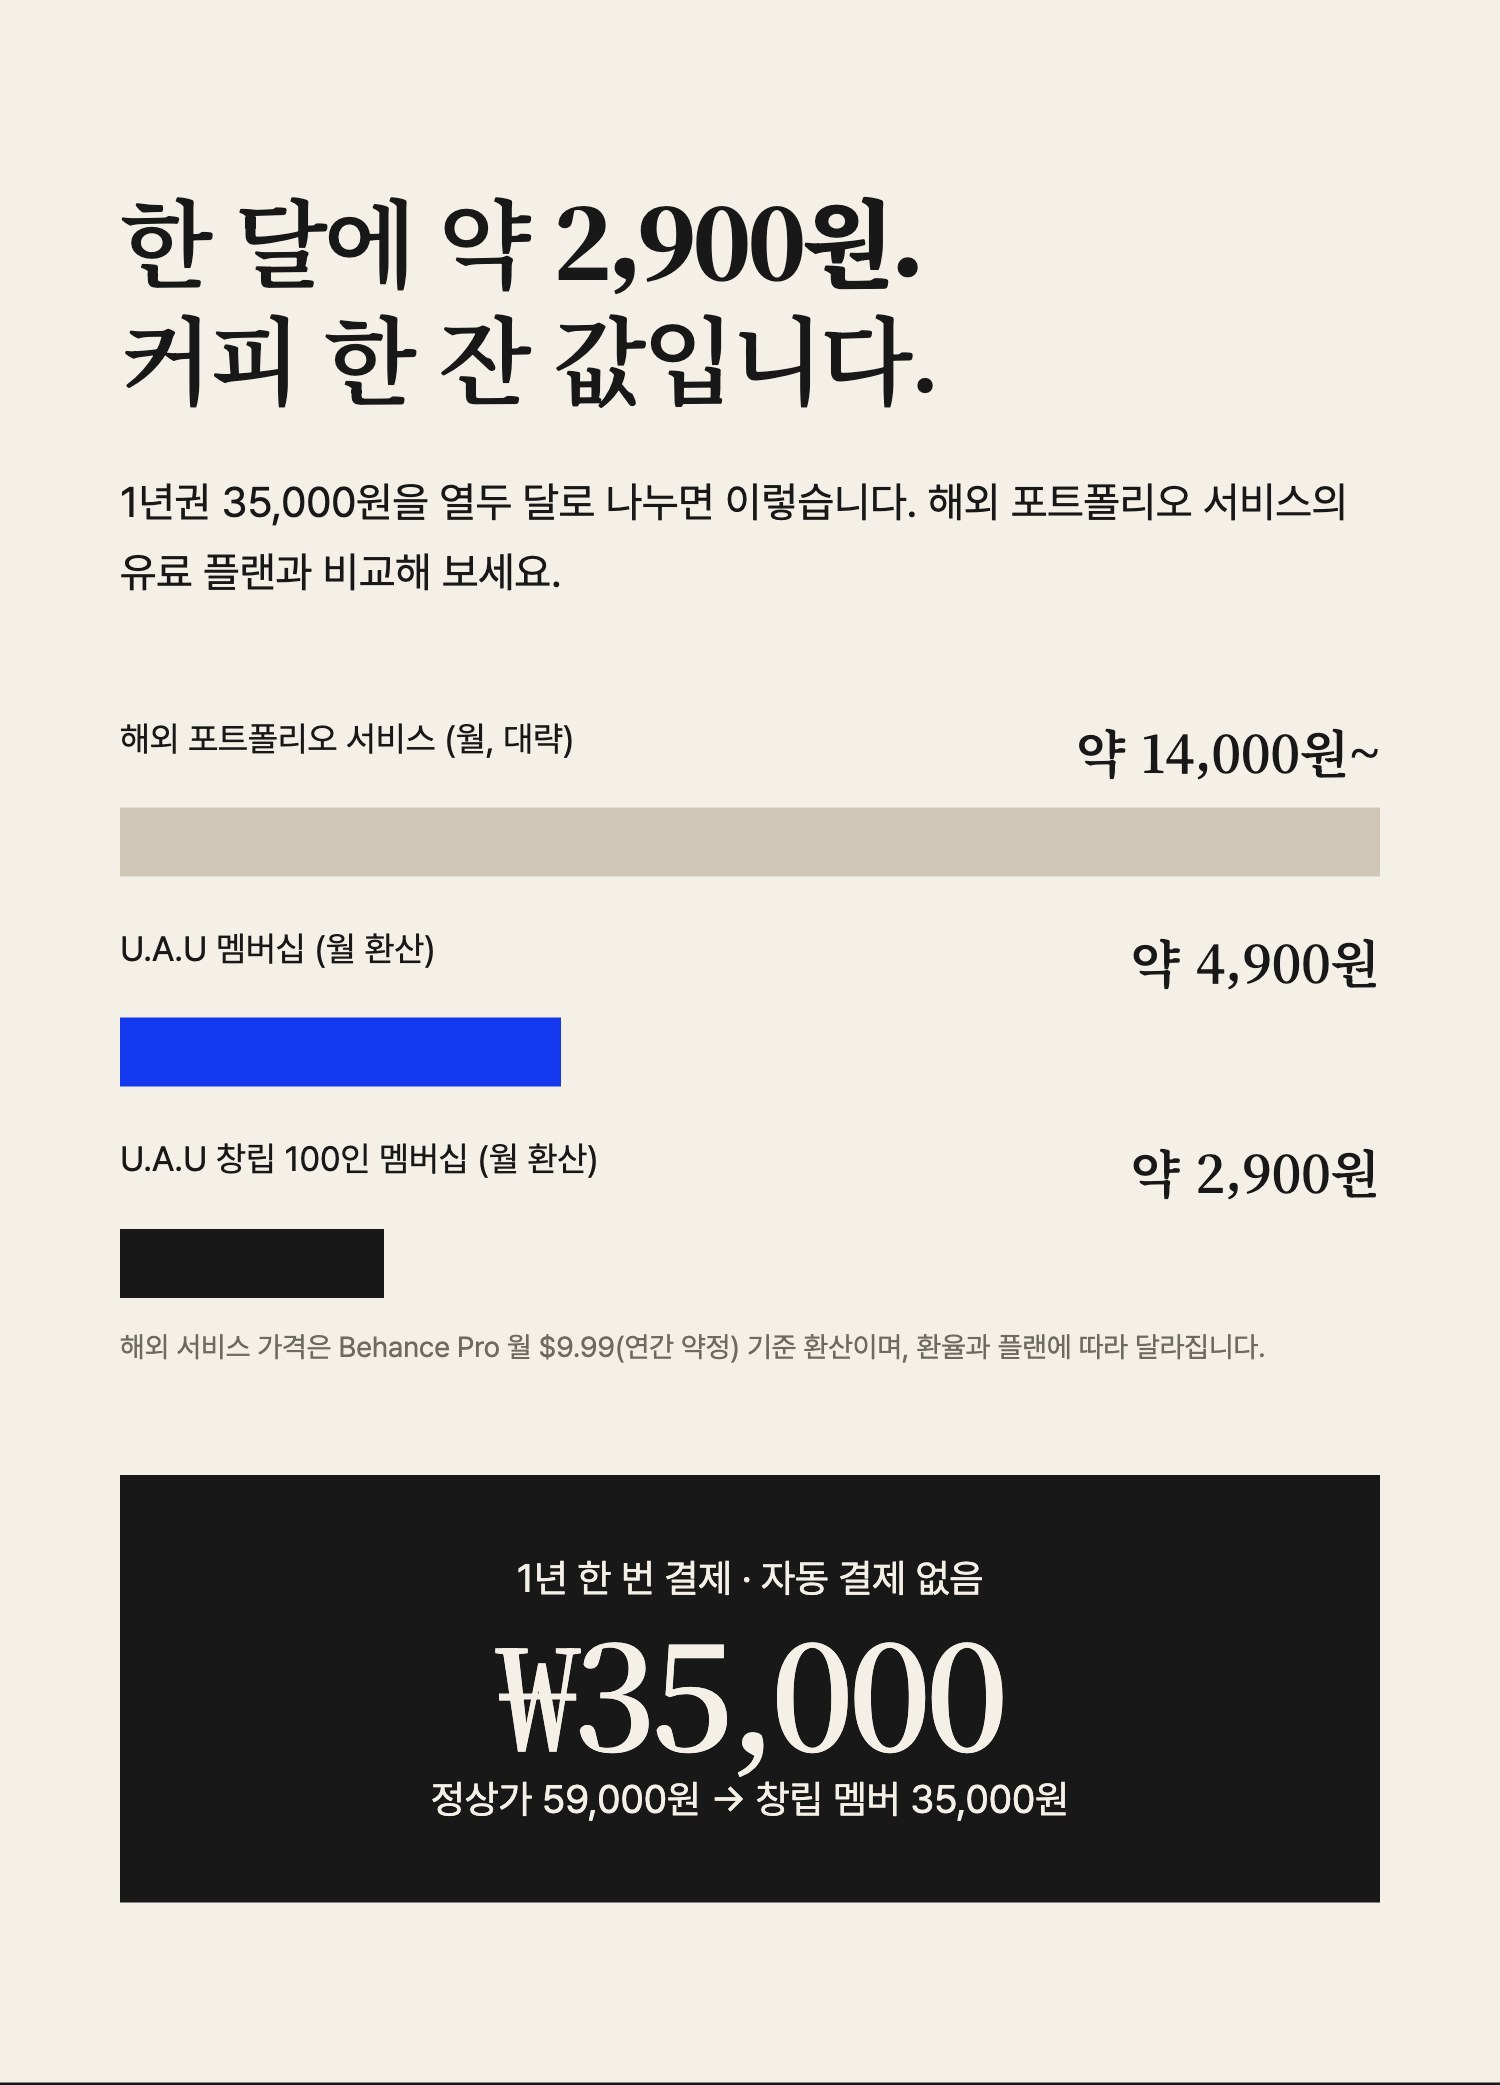
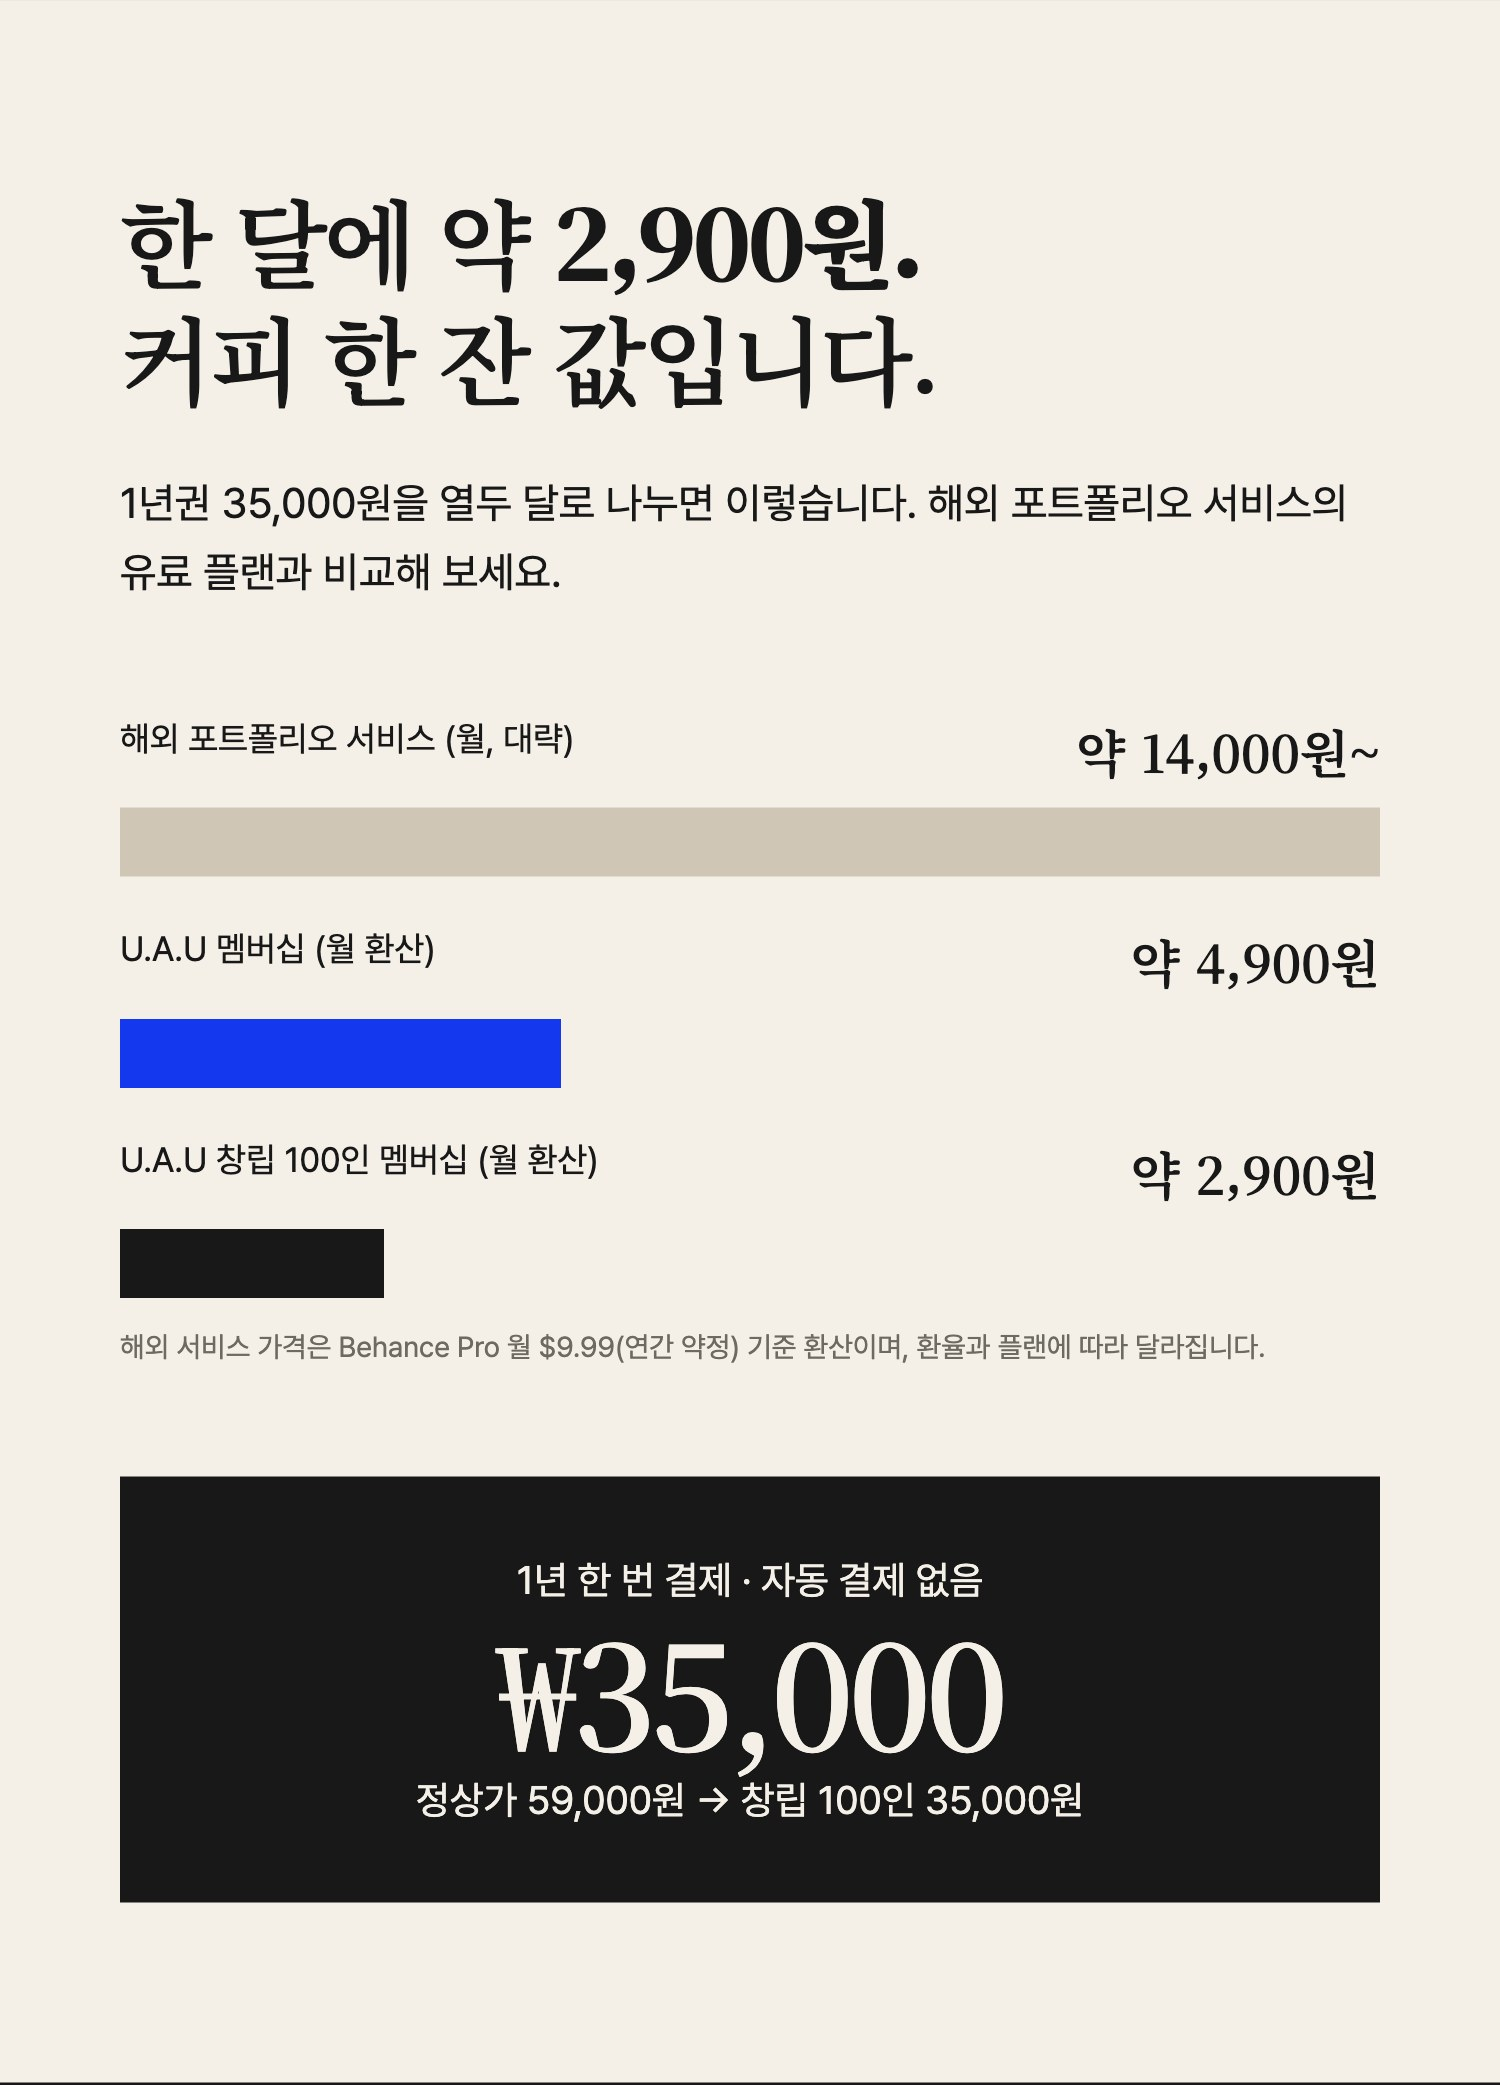
Rewrite the founding detail copy and add JPG covers
Match the founding copy to the member tone, fix particles left after the
crest rename, collect the U.A.U email with an input option, and export the
covers as JPG as well since Imweb rejected the founding PNG.

diff --git a/docs/operations/imweb/detail.html b/docs/operations/imweb/detail.html
@@ -174,7 +174,7 @@ const sections = [
   `<section class="slice open"><img src="../../../public/assets/uau-hero.webp" alt=""><div class="brand">U.A.U - UNFRAME Artist Unit</div><div class="scrim"></div>${seal()}<div class="copy">
     <span class="tag">${isFounding ? "선착순 100명 · 창립 멤버 1년권" : "U.A.U 멤버 1년권"}</span>
     <h1>${isFounding ? "단 100명에게만,<br>먹색 크레스트." : "작가의 이름 옆에,<br>작은 크레스트 하나."}</h1>
-    <p>${isFounding ? "U.A.U가 시작하는 해를 함께할 작가 100명을 찾습니다." : "커피 한 잔 값으로, 당신의 작업이 더 명확하고 자주 보이게."}</p></div></section>`,
+    <p>${isFounding ? "U.A.U의 첫해를 함께 열어 갈 창립 아티스트 100명을 찾습니다." : "커피 한 잔 값으로, 당신의 작업이 더 명확하고 자주 보이게."}</p></div></section>`,
   // 2 pains
   `<section class="slice deep"><h2>작업에 몰두하기도 벅찬데,<br><em>알리는 비용</em>은 무겁습니다.</h2>
     <p class="lead">아티스트가 자신의 온전한 아카이브를 알리려면 생각보다 많은 비효율과 비용이 듭니다.</p>
@@ -189,7 +189,7 @@ const sections = [
     <p class="lead">멤버십은 상업적인 입찰 광고가 아닙니다. <b>창작을 지키는 아티스트에게 더 명확한 시선의 기회를 더하는 신뢰의 연결입니다.</b></p></section>`,
   // 4 seal reveal
   `<section class="slice dark reveal"><span class="tag">MEMBERSHIP CREST</span><h2 style="margin-top:30px">이름 옆에 새겨지는<br>U.A.U ${name} 크레스트</h2>${seal()}
-    <div class="anatomy"><div><b>U · A</b><p>상단은 Unframe Artist의 머리글자. 기존 틀을 벗어난 동시대 아티스트</p></div><div><b>□ · U</b><p>하단은 액자 틀과 Unit. 틀을 확장하는 아티스트들의 독립적 연대 단위.</p></div><div><b>${colour}</b><p>${isFounding ? "먹색은 창립 멤버에게만. 테두리가 한 겹 더 있습니다." : "딥블루는 U.A.U 공식 멤버의 시그니처 컬러입니다."}</p></div></div></section>`,
+    <div class="anatomy"><div><b>U · A</b><p>상단은 Unframe Artist의 머리글자. 기존 틀을 벗어난 동시대 아티스트</p></div><div><b>□ · U</b><p>하단은 액자 틀과 Unit. 틀을 확장하는 아티스트들의 독립적 연대 단위.</p></div><div><b>${colour}</b><p>${isFounding ? "먹색은 창립 100인에게만 허락된 컬러. 테두리가 한 겹 더 새겨집니다." : "딥블루는 U.A.U 공식 멤버의 시그니처 컬러입니다."}</p></div></div></section>`,
   // 5 benefit 1
   `<section class="slice soft"><div class="num">01</div><h2 style="margin-top:36px">아티스트 페이지와 목록,<br>이름 옆에 <em>크레스트</em>가 붙습니다.</h2>
     <p class="lead">아티스트 페이지 상단에는 볼드한 크레스트가, 아카이브 목록과 추천 탭에는 컴팩트 크레스트가 표시됩니다. 컬렉터와 큐레이터는 이 작가가 U.A.U와 긴밀히 연대하는 멤버임을 직관적으로 확인합니다.</p>
@@ -212,7 +212,7 @@ const sections = [
       <div><div><b>아카이브 애널리틱스</b><p>작업 조회수 · 문의 추이 · 큐레이터 저장 수를 한 화면에서</p></div><em>준비 중</em></div>
       <div><div><b>포트폴리오 PDF 익스포트</b><p>워터마크 없이 인쇄/전달 가능한 규격 도록 내보내기</p></div><em>준비 중</em></div>
       <div><div><b>오픈콜 & 기획 우선 알림</b><p>큐레이터 브리프 · 오픈콜 · 협력전시를 우선 전달</p></div><em>준비 중</em></div>
-      ${isFounding ? `<div><div><b>연말 Recap 수록</b><p>창립 멤버로 한 해의 기록에</p></div><em>준비 중</em></div>` : ""}
+      ${isFounding ? `<div><div><b>연말 Recap 창립 아티스트 수록</b><p>U.A.U 첫해의 기록에 창립 아티스트로 이름을 남깁니다</p></div><em>준비 중</em></div>` : ""}
     </div></section>`,
   // 8 price
   `<section class="slice"><h2>한 달에 약 <em>${month}원.</em><br>커피 한 잔 값입니다.</h2>
@@ -222,15 +222,15 @@ const sections = [
       <div class="bar is-us"><span>U.A.U 멤버십 (월 환산)<b>약 4,900원</b></span><i style="width:35%"></i></div>
       <div class="bar is-founding-bar"><span>U.A.U 창립 100인 멤버십 (월 환산)<b>약 2,900원</b></span><i style="width:21%"></i></div>
     </div><p class="caption">해외 서비스 가격은 Behance Pro 월 $9.99(연간 약정) 기준 환산이며, 환율과 플랜에 따라 달라집니다.</p>
-    <div class="coffee"><span>1년 한 번 결제 · 자동 결제 없음</span><strong>₩${price}</strong>${isFounding ? "<span>정상가 59,000원 → 창립 멤버 35,000원</span>" : "<span>끊기지 않고 갱신하면 가입 가격 그대로</span>"}</div></section>`,
+    <div class="coffee"><span>1년 한 번 결제 · 자동 결제 없음</span><strong>₩${price}</strong>${isFounding ? "<span>정상가 59,000원 → 창립 100인 35,000원</span>" : "<span>끊기지 않고 갱신하면 가입 가격 그대로</span>"}</div></section>`,
   // 9 founding only
   isFounding ? `<section class="slice dark"><span class="tag">FOUNDING 100</span><h2 style="margin-top:30px">창립 멤버는 100명에서<br>닫히고, 다시 열리지 않습니다.</h2>
     <div class="seats">${Array.from({ length: 100 }, () => "<i></i>").join("")}</div>
     <div class="found-list">
-      <div><b>01</b><p>먹색 창립 크레스트<small>테두리가 한 겹 더 있는, 창립 멤버만의 크레스트</small></p></div>
-      <div><b>02</b><p>연 35,000원, 갱신하는 동안 그대로<small>나중에 멤버 가격이 올라도 끊기지 않으면 유지</small></p></div>
-      <div><b>03</b><p>멤버 혜택 전부<small>크레스트 · 홈 스포트라이트 · 앞으로 열릴 도구</small></p></div>
-      <div><b>04</b><p>U.A.U의 첫해를 함께한 기록<small>연말 Recap 창립 멤버 수록 (준비 중)</small></p></div>
+      <div><b>01</b><p>먹색 창립 크레스트<small>테두리가 한 겹 더 새겨진, 창립 100인만의 시그니처 크레스트</small></p></div>
+      <div><b>02</b><p>연 35,000원, 갱신하는 동안 그대로<small>이후 멤버십 가격이 인상되어도 끊김 없이 갱신하면 최초 가입가 유지</small></p></div>
+      <div><b>03</b><p>멤버 혜택 전부<small>크레스트 · 홈 스포트라이트 · 새롭게 열리는 아티스트 툴셋</small></p></div>
+      <div><b>04</b><p>U.A.U의 첫해를 함께한 기록<small>연말 Recap 창립 아티스트 수록 (준비 중)</small></p></div>
     </div></section>` : "",
   // 10 promises
   `<section class="slice deep"><h2>U.A.U가 지키는<br>세 가지 약속.</h2><div class="promise">
@@ -249,7 +249,7 @@ const sections = [
     <div><b>자동으로 다시 결제되나요?</b><p>아닙니다. 1년 기간권이므로 의사와 무관하게 자동 청구되지 않으며, 만료 전에 미리 연장 안내를 드립니다.</p></div>
     <div><b>크레스트 표시는 언제 켜지나요?</b><p>UNFRAME 운영팀이 결제를 확인 후 12시간 이내에 반영합니다. 주문서에 U.A.U 가입 이메일로 작가 페이지를 연동합니다.</p></div>
     ${isFounding
-      ? `<div><b>작가 번호의 '창립 작가'와 같은 건가요?</b><p>다릅니다. 작가 번호의 창립 표시는 먼저 승인된 작가에게 무료로 붙는 기록이고, 먹색 크레스트은 유료 창립 멤버에게만 붙습니다.</p></div><div><b>갱신을 놓치면 어떻게 되나요?</b><p>갱신하지 않고 1년이 지나면 창립 크레스트와 가격이 함께 끝납니다. 만료 전에 미리 알려 드립니다.</p></div>`
+      ? `<div><b>작가 번호의 '창립 작가' 표시와 같은 건가요?</b><p>다릅니다. 작가 번호의 창립 표시는 초기에 승인된 아티스트에게 무료로 남는 기록이며, 먹색 크레스트는 유료 창립 멤버십 가입자에게만 표시됩니다.</p></div><div><b>갱신 시기를 놓치면 어떻게 되나요?</b><p>만료 전에 미리 연장 안내를 드립니다. 갱신 없이 기간이 지나면 창립 크레스트와 창립 가격 혜택이 함께 종료되며, 이후에는 일반 멤버십으로 가입하실 수 있습니다.</p></div>`
       : `<div><b>창립 멤버와 일반 멤버의 차이는 무엇인가요?</b><p>제공되는 핵심 기능은 동일하며, 크레스트의 컬러(블루 / 먹)와 가입 가격이 다릅니다. 창립 멤버는 선착순 100명 한정입니다.</p></div><div><b>이후 멤버십 가격이 인상되면 어떻게 되나요?</b><p>기간 만료 전 끊김 없이 갱신을 이어가시는 멤버는 최초 가입할 때의 금액 그대로 연장 권한을 유지하실 수 있습니다.</p></div>`}
     <div><b>환불 정책은 어떻게 되나요?</b><p>크레스트 활성화 전 취소 시 전액 환불되며, 상세 기준은 하단 UNFRAME 스토어 이용약관 및 환불 규정을 준수합니다.</p></div>
   </div></section>`,

diff --git a/app/membership/page.tsx b/app/membership/page.tsx
@@ -31,8 +31,8 @@ export default function MembershipPage() {
   const faq = [
     [tx(locale, "Will I be charged again automatically?", "자동으로 다시 결제되나요?"), tx(locale, "No. It is a one-year pass. When the year ends the seal switches off by itself, and you decide whether to buy another year.", "아니요. 1년권이라 자동 결제가 없습니다. 1년이 지나면 크레스트가 저절로 꺼지고, 다음 해를 이어 갈지는 직접 정하시면 됩니다.")],
     [tx(locale, "When does my seal appear?", "크레스트는 언제 켜지나요?"), tx(locale, "After the UNFRAME team confirms the payment, within 12 hours. Write the email you use on U.A.U in the order form so we can find your page.", "UNFRAME 팀이 결제를 확인한 뒤, 12시간 이내에 켜집니다. 페이지를 찾을 수 있도록 주문서에 U.A.U 가입 이메일을 꼭 적어 주세요.")],
-    [tx(locale, `What makes the founding ${foundingSeats} different?`, `창립 ${foundingSeats}인은 무엇이 다른가요?`), tx(locale, `They pay ₩35,000 a year instead of ₩59,000, wear the ink seal, and keep both for as long as they renew without a break. After ${foundingSeats} passes, founding closes for good.`, `연 59,000원 대신 35,000원을 내고, 먹색 크레스트을 답니다. 끊기지 않고 갱신하는 동안 가격과 크레스트가 그대로 유지됩니다. ${foundingSeats}명이 차면 창립 멤버는 다시 열리지 않습니다.`)],
-    [tx(locale, "Is this the same as my founding artist number?", "작가 번호의 '창립 작가'와 같은 건가요?"), tx(locale, "No. The founding number is free and given to the first approved artists. The ink seal belongs only to paid founding members.", "다릅니다. 작가 번호의 창립 표시는 먼저 승인된 작가에게 무료로 붙는 기록입니다. 먹색 크레스트은 유료 창립 멤버에게만 붙습니다.")],
+    [tx(locale, `What makes the founding ${foundingSeats} different?`, `창립 ${foundingSeats}인은 무엇이 다른가요?`), tx(locale, `They pay ₩35,000 a year instead of ₩59,000, wear the ink seal, and keep both for as long as they renew without a break. After ${foundingSeats} passes, founding closes for good.`, `연 59,000원 대신 35,000원을 내고, 먹색 크레스트를 답니다. 끊기지 않고 갱신하는 동안 가격과 크레스트가 그대로 유지됩니다. ${foundingSeats}명이 차면 창립 멤버는 다시 열리지 않습니다.`)],
+    [tx(locale, "Is this the same as my founding artist number?", "작가 번호의 '창립 작가'와 같은 건가요?"), tx(locale, "No. The founding number is free and given to the first approved artists. The ink seal belongs only to paid founding members.", "다릅니다. 작가 번호의 창립 표시는 먼저 승인된 작가에게 무료로 붙는 기록입니다. 먹색 크레스트는 유료 창립 멤버에게만 붙습니다.")],
     [tx(locale, "Why is it this cheap?", "왜 이렇게 저렴한가요?"), tx(locale, "U.A.U has just begun, so we only charge for what is already built. When statistics and the PDF export open, the price for new members goes up. Members who renew without a break keep the price they joined at.", "U.A.U는 이제 막 시작했고, 지금 드릴 수 있는 만큼만 받습니다. 통계와 PDF 내보내기가 열리면 새로 가입하는 분의 가격은 오릅니다. 끊기지 않고 갱신하는 멤버는 가입할 때의 가격 그대로입니다.")],
     [tx(locale, "What about refunds?", "환불은 어떻게 하나요?"), tx(locale, "Refunds follow the UNFRAME shop policy shown on the order page.", "환불은 결제 페이지에 안내된 UNFRAME 스토어 정책을 따릅니다.")],
   ] as const;
